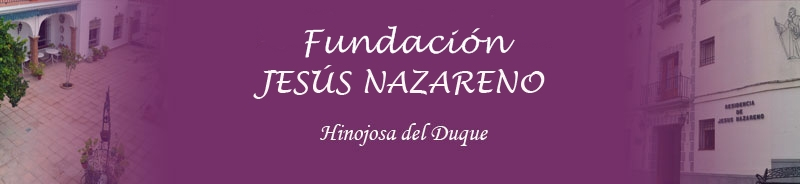
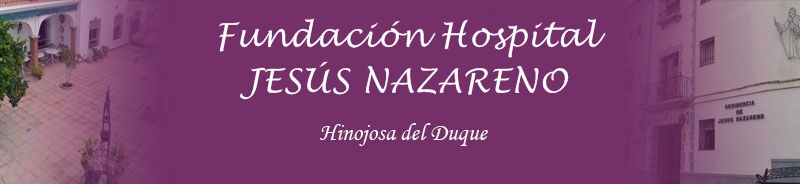
Títulos e imagen de portada actualizado. Falta GIF inicio

Changed region(s): [[0.25, 0.1087, 0.7812, 0.2989], [0.2812, 0.3533, 0.7188, 0.5435]]

diff --git a/residencia/index.html b/residencia/index.html
@@ -3,7 +3,7 @@
 <head>
 <meta http-equiv="Content-Type" content="text/html; charset=utf-8" />
 <!-- InstanceBeginEditable name="doctitle" -->
-<title>Fundación Jesús Nazareno - Hinojosa del Duque</title>
+<title>Fundación Hospital Jesús Nazareno - Hinojosa del Duque</title>
 <!-- InstanceEndEditable -->
 <!-- InstanceBeginEditable name="head" -->
 <link rel="shortcut icon" href="favicon.ico" />
@@ -175,7 +175,7 @@ a:active {
     
     
     <div class="titulospagina">
-      <h1 class="cabecerastexto">Fundación Jesús Nazareno</h1>
+      <h1 class="cabecerastexto">Fundación Hospital Jesús Nazareno</h1>
       <p class="texto"><span class="textocentral"><strong>Fundación Hospital Jesús Nazareno</strong> de Hinojosa del Duque.<br/>Somos un centro confesional católico gestionado por la Congregación de HH. Franciscanas Hospitalarias de Jesús Nazareno. Nuestra misión es la atención integral a las personas teniendo en cuenta toda las dimensiones de su ser, con preferencia por personas en situación de necesidad y basándonos en un modelo de atención integral centrada en la persona. </span>
         <!-- end #mainContent -->
       </p>
@@ -205,7 +205,7 @@ a:active {
   <!-- Este elemento de eliminación siempre debe ir inmediatamente después del div #mainContent para forzar al div #container a que contenga todos los elementos flotantes hijos --><br class="clearfloat" />
   <div id="footer">
   <div class="pieuno">
-  <div class="piearriba"><span class="textocentral"><span class="textopiecentro"> Fundación Jesus Nazareno<br />
+  <div class="piearriba"><span class="textocentral"><span class="textopiecentro"> Fundación Hospital Jesús Nazareno<br />
   Calle de la Caridad, 8 <br /> 
   Hinojosa del Duque - Córdoba - <br />
   Teléfono: 957 14 07 62</span></span></div></div>

diff --git a/residencia/centros.html b/residencia/centros.html
@@ -3,7 +3,7 @@
 <head>
 <meta http-equiv="Content-Type" content="text/html; charset=utf-8" />
 <!-- InstanceBeginEditable name="doctitle" -->
-<title>Fundación Jesus Nazareno - Otros centros</title>
+<title>Fundación Hospital Jesús Nazareno - Otros centros</title>
 <!-- InstanceEndEditable -->
 <!-- InstanceBeginEditable name="head" -->
 <link rel="shortcut icon" href="favicon.ico" />
@@ -149,8 +149,8 @@ a:active {
   <!-- InstanceBeginEditable name="principal" -->
   <div id="mainContent"><br /><br />
     <div class="titulospagina">
-      <h1 class="cabecerastexto">Fundación Jesus Nazareno<br /><br /></h1>
-      <p class="texto"><span class="textocentral">Otros Centros  Jesus Nazareno</span></p>
+      <h1 class="cabecerastexto">Fundación Hospital Jesús Nazareno<br /><br /></h1>
+      <p class="texto"><span class="textocentral">Otros Centros  Jesús Nazareno</span></p>
       <p align="center"><img src="imagenes/centrosp.gif" width="600" height="839" /></p>
       <h1 class="cabecerastexto">
         <!-- end #mainContent -->
@@ -165,7 +165,7 @@ a:active {
   <!-- Este elemento de eliminación siempre debe ir inmediatamente después del div #mainContent para forzar al div #container a que contenga todos los elementos flotantes hijos --><br class="clearfloat" />
   <div id="footer">
   <div class="pieuno">
-  <div class="piearriba"><span class="textocentral"><span class="textopiecentro"> Fundación Jesus Nazareno<br />
+  <div class="piearriba"><span class="textocentral"><span class="textopiecentro"> Fundación Hospital Jesús Nazareno<br />
   Calle de la Caridad, 8 <br /> 
   Hinojosa del Duque - Córdoba - <br />
   Teléfono: 957 14 07 62</span></span></div></div>

diff --git a/residencia/servicios/servicios.html b/residencia/servicios/servicios.html
@@ -3,7 +3,7 @@
 <head>
 <meta http-equiv="Content-Type" content="text/html; charset=utf-8" />
 <!-- InstanceBeginEditable name="doctitle" -->
-<title>Fundación Jesus Nazareno- Servicios</title>
+<title>Fundación  Hospital Jesús Nazareno- Servicios</title>
 <!-- InstanceEndEditable -->
 <!-- InstanceBeginEditable name="head" -->
 <link rel="shortcut icon" href="favicon.ico" />
@@ -157,7 +157,7 @@ a:active {
   <!-- InstanceBeginEditable name="principal" -->
   <div id="mainContent">
     <div class="titulospagina">
-      <h1 class="cabecerastexto">Fundación Jesus Nazareno</h1>
+      <h1 class="cabecerastexto">Servicios</h1>
       <p class="texto"><span class="textocentral">Nuestra amplia experiencia, y nuestra instalaciones nos permiten ofrecer una gran cantidad de servicios, de máxima calidad.</span></p>
     </div>
   <br />
@@ -224,7 +224,7 @@ a:active {
   <!-- Este elemento de eliminación siempre debe ir inmediatamente después del div #mainContent para forzar al div #container a que contenga todos los elementos flotantes hijos --><br class="clearfloat" />
   <div id="footer">
   <div class="pieuno">
-  <div class="piearriba"><span class="textocentral"><span class="textopiecentro"> Fundación Jesus Nazareno<br />
+  <div class="piearriba"><span class="textocentral"><span class="textopiecentro"> Fundación Hospital Jesús Nazareno<br />
   Calle de la Caridad, 8 <br /> 
   Hinojosa del Duque - Córdoba - <br />
   Teléfono: 957 14 07 62</span></span></div></div>

diff --git a/residencia/actividades/actividades.html b/residencia/actividades/actividades.html
@@ -3,7 +3,7 @@
 <head>
 <meta http-equiv="Content-Type" content="text/html; charset=utf-8" />
 <!-- InstanceBeginEditable name="doctitle" -->
-<title>Fundación de Ancianos Jesus Nazareno - Actividades</title>
+<title>Fundación Hospital Jesús Nazareno - Actividades</title>
 <!-- InstanceEndEditable -->
 <!-- InstanceBeginEditable name="head" -->
 <link rel="shortcut icon" href="favicon.ico" />
@@ -156,7 +156,7 @@ a:active {
   <!-- InstanceBeginEditable name="principal" -->
   <div id="mainContent">
     <div class="titulospagina">
-      <h1 class="cabecerastexto">Fundación Jesus Nazareno</h1>
+      <h1 class="cabecerastexto">Actividades</h1>
       <p class="texto"><span class="textocentral">A continuación mostramos algunas de las actividades organizadas desde nuestro centro.</span></p>
     </div>
   <br />
@@ -223,7 +223,7 @@ a:active {
   <!-- Este elemento de eliminación siempre debe ir inmediatamente después del div #mainContent para forzar al div #container a que contenga todos los elementos flotantes hijos --><br class="clearfloat" />
   <div id="footer">
   <div class="pieuno">
-  <div class="piearriba"><span class="textocentral"><span class="textopiecentro"> Fundación Jesus Nazareno<br />
+  <div class="piearriba"><span class="textocentral"><span class="textopiecentro"> Fundación Hospital Jesús Nazareno<br />
   Calle de la Caridad, 8 <br /> 
   Hinojosa del Duque - Córdoba - <br />
   Teléfono: 957 14 07 62</span></span></div></div>

diff --git a/residencia/comollegar.html b/residencia/comollegar.html
@@ -3,7 +3,7 @@
 <head>
 <meta http-equiv="Content-Type" content="text/html; charset=utf-8" />
 <!-- InstanceBeginEditable name="doctitle" -->
-<title>Fundación Jesus Nazareno - Como llegar</title>
+<title>Fundación Hospital Jesús Nazareno - Como llegar</title>
 <!-- InstanceEndEditable -->
 <!-- InstanceBeginEditable name="head" -->
 <link rel="shortcut icon" href="favicon.ico" />
@@ -245,7 +245,7 @@ a:active {
   <!-- Este elemento de eliminación siempre debe ir inmediatamente después del div #mainContent para forzar al div #container a que contenga todos los elementos flotantes hijos --><br class="clearfloat" />
   <div id="footer">
   <div class="pieuno">
-  <div class="piearriba"><span class="textocentral"><span class="textopiecentro"> Fundación Jesus Nazareno<br />
+  <div class="piearriba"><span class="textocentral"><span class="textopiecentro"> Fundación Hospital Jesús Nazareno<br />
   Calle de la Caridad, 8 <br /> 
   Hinojosa del Duque - Córdoba - <br />
   Teléfono: 957 14 07 62</span></span></div></div>

diff --git a/residencia/contacto.html b/residencia/contacto.html
@@ -3,7 +3,7 @@
 <head>
 <meta http-equiv="Content-Type" content="text/html; charset=utf-8" />
 <!-- InstanceBeginEditable name="doctitle" -->
-<title>Fundación Jesus Nazareno - Contacto</title>
+<title>Fundación Hospital Jesús Nazareno - Contacto</title>
 <!-- InstanceEndEditable -->
 <!-- InstanceBeginEditable name="head" -->
 <link rel="shortcut icon" href="favicon.ico" />
@@ -292,7 +292,7 @@ a:active {
   <!-- Este elemento de eliminación siempre debe ir inmediatamente después del div #mainContent para forzar al div #container a que contenga todos los elementos flotantes hijos --><br class="clearfloat" />
   <div id="footer">
   <div class="pieuno">
-  <div class="piearriba"><span class="textocentral"><span class="textopiecentro"> Fundación Jesus Nazareno<br />
+  <div class="piearriba"><span class="textocentral"><span class="textopiecentro"> Fundación Hospital Jesús Nazareno<br />
   Calle de la Caridad, 8 <br /> 
   Hinojosa del Duque - Córdoba - <br />
   Teléfono: 957 14 07 62</span></span></div></div>

diff --git a/residencia/galeriacuadro1/galeriacuadro1-1.html b/residencia/galeriacuadro1/galeriacuadro1-1.html
@@ -3,7 +3,7 @@
 <head>
 <meta http-equiv="Content-Type" content="text/html; charset=utf-8" />
 <!-- InstanceBeginEditable name="doctitle" -->
-<title>Fundación Jesus Nazareno - Galeria</title>
+<title>Fundación Hospital Jesús Nazareno - Galeria</title>
 <!-- InstanceEndEditable -->
 <!-- InstanceBeginEditable name="head" -->
 <link rel="shortcut icon" href="favicon.ico" />
@@ -176,7 +176,7 @@ a:active {
   <!-- Este elemento de eliminación siempre debe ir inmediatamente después del div #mainContent para forzar al div #container a que contenga todos los elementos flotantes hijos --><br class="clearfloat" />
   <div id="footer">
   <div class="pieuno">
-  <div class="piearriba"><span class="textocentral"><span class="textopiecentro"> Fundación Jesus Nazareno<br />
+  <div class="piearriba"><span class="textocentral"><span class="textopiecentro"> Fundación Hospital Jesús Nazareno<br />
   Calle de la Caridad, 8 <br /> 
   Hinojosa del Duque - Córdoba - <br />
   Teléfono: 957 14 07 62</span></span></div></div>

diff --git a/residencia/galeriacuadro1/galeriacuadro1-2.html b/residencia/galeriacuadro1/galeriacuadro1-2.html
@@ -3,7 +3,7 @@
 <head>
 <meta http-equiv="Content-Type" content="text/html; charset=utf-8" />
 <!-- InstanceBeginEditable name="doctitle" -->
-<title>Fundación Jesus Nazareno - Galeria</title>
+<title>Fundación Hospital Jesús Nazareno - Galeria</title>
 <!-- InstanceEndEditable -->
 <!-- InstanceBeginEditable name="head" -->
 <link rel="shortcut icon" href="favicon.ico" />
@@ -177,7 +177,7 @@ a:active {
   <!-- Este elemento de eliminación siempre debe ir inmediatamente después del div #mainContent para forzar al div #container a que contenga todos los elementos flotantes hijos --><br class="clearfloat" />
   <div id="footer">
   <div class="pieuno">
-  <div class="piearriba"><span class="textocentral"><span class="textopiecentro"> Fundación Jesus Nazareno<br />
+  <div class="piearriba"><span class="textocentral"><span class="textopiecentro"> Fundación Hospital Jesús Nazareno<br />
   Calle de la Caridad, 8 <br /> 
   Hinojosa del Duque - Córdoba - <br />
   Teléfono: 957 14 07 62</span></span></div></div>

diff --git a/residencia/galeriacuadro1/galeriacuadro1-3.html b/residencia/galeriacuadro1/galeriacuadro1-3.html
@@ -3,7 +3,7 @@
 <head>
 <meta http-equiv="Content-Type" content="text/html; charset=utf-8" />
 <!-- InstanceBeginEditable name="doctitle" -->
-<title>Fundación Jesus Nazareno - Galeria</title>
+<title>Fundación Hospital Jesús Nazareno - Galeria</title>
 <!-- InstanceEndEditable -->
 <!-- InstanceBeginEditable name="head" -->
 <link rel="shortcut icon" href="favicon.ico" />
@@ -177,7 +177,7 @@ a:active {
   <!-- Este elemento de eliminación siempre debe ir inmediatamente después del div #mainContent para forzar al div #container a que contenga todos los elementos flotantes hijos --><br class="clearfloat" />
   <div id="footer">
   <div class="pieuno">
-  <div class="piearriba"><span class="textocentral"><span class="textopiecentro"> Fundación Jesus Nazareno<br />
+  <div class="piearriba"><span class="textocentral"><span class="textopiecentro"> Fundación Hospital Jesús Nazareno<br />
   Calle de la Caridad, 8 <br /> 
   Hinojosa del Duque - Córdoba - <br />
   Teléfono: 957 14 07 62</span></span></div></div>

diff --git a/residencia/galeriacuadro1/galeriacuadro1-4.html b/residencia/galeriacuadro1/galeriacuadro1-4.html
@@ -3,7 +3,7 @@
 <head>
 <meta http-equiv="Content-Type" content="text/html; charset=utf-8" />
 <!-- InstanceBeginEditable name="doctitle" -->
-<title>Fundación Jesus Nazareno - Galeria</title>
+<title>Fundación Hospital Jesús Nazareno - Galeria</title>
 <!-- InstanceEndEditable -->
 <!-- InstanceBeginEditable name="head" -->
 <link rel="shortcut icon" href="favicon.ico" />
@@ -176,7 +176,7 @@ a:active {
   <!-- Este elemento de eliminación siempre debe ir inmediatamente después del div #mainContent para forzar al div #container a que contenga todos los elementos flotantes hijos --><br class="clearfloat" />
   <div id="footer">
   <div class="pieuno">
-  <div class="piearriba"><span class="textocentral"><span class="textopiecentro"> Fundación Jesus Nazareno<br />
+  <div class="piearriba"><span class="textocentral"><span class="textopiecentro"> Fundación Hospital Jesús Nazareno<br />
   Calle de la Caridad, 8 <br /> 
   Hinojosa del Duque - Córdoba - <br />
   Teléfono: 957 14 07 62</span></span></div></div>

diff --git a/residencia/galeriacuadro2/galeriacuadro2-1.html b/residencia/galeriacuadro2/galeriacuadro2-1.html
@@ -3,7 +3,7 @@
 <head>
 <meta http-equiv="Content-Type" content="text/html; charset=utf-8" />
 <!-- InstanceBeginEditable name="doctitle" -->
-<title>Fundación Jesus Nazareno - Galeria</title>
+<title>Fundación Hospital Jesús Nazareno - Galeria</title>
 <!-- InstanceEndEditable -->
 <!-- InstanceBeginEditable name="head" -->
 <link rel="shortcut icon" href="favicon.ico" />
@@ -176,7 +176,7 @@ a:active {
   <!-- Este elemento de eliminación siempre debe ir inmediatamente después del div #mainContent para forzar al div #container a que contenga todos los elementos flotantes hijos --><br class="clearfloat" />
   <div id="footer">
   <div class="pieuno">
-  <div class="piearriba"><span class="textocentral"><span class="textopiecentro"> Fundación Jesus Nazareno<br />
+  <div class="piearriba"><span class="textocentral"><span class="textopiecentro"> Fundación Hospital Jesús Nazareno<br />
   Calle de la Caridad, 8 <br /> 
   Hinojosa del Duque - Córdoba - <br />
   Teléfono: 957 14 07 62</span></span></div></div>

diff --git a/residencia/galeriacuadro3/galeriacuadro3-1.html b/residencia/galeriacuadro3/galeriacuadro3-1.html
@@ -3,7 +3,7 @@
 <head>
 <meta http-equiv="Content-Type" content="text/html; charset=utf-8" />
 <!-- InstanceBeginEditable name="doctitle" -->
-<title>Fundación Jesus Nazareno - Galeria</title>
+<title>Fundación Hospital Jesús Nazareno - Galeria</title>
 <!-- InstanceEndEditable -->
 <!-- InstanceBeginEditable name="head" -->
 <link rel="shortcut icon" href="favicon.ico" />
@@ -176,7 +176,7 @@ a:active {
   <!-- Este elemento de eliminación siempre debe ir inmediatamente después del div #mainContent para forzar al div #container a que contenga todos los elementos flotantes hijos --><br class="clearfloat" />
   <div id="footer">
   <div class="pieuno">
-  <div class="piearriba"><span class="textocentral"><span class="textopiecentro"> Fundación Jesus Nazareno<br />
+  <div class="piearriba"><span class="textocentral"><span class="textopiecentro"> Fundación Hospital Jesús Nazareno<br />
   Calle de la Caridad, 8 <br /> 
   Hinojosa del Duque - Córdoba - <br />
   Teléfono: 957 14 07 62</span></span></div></div>
